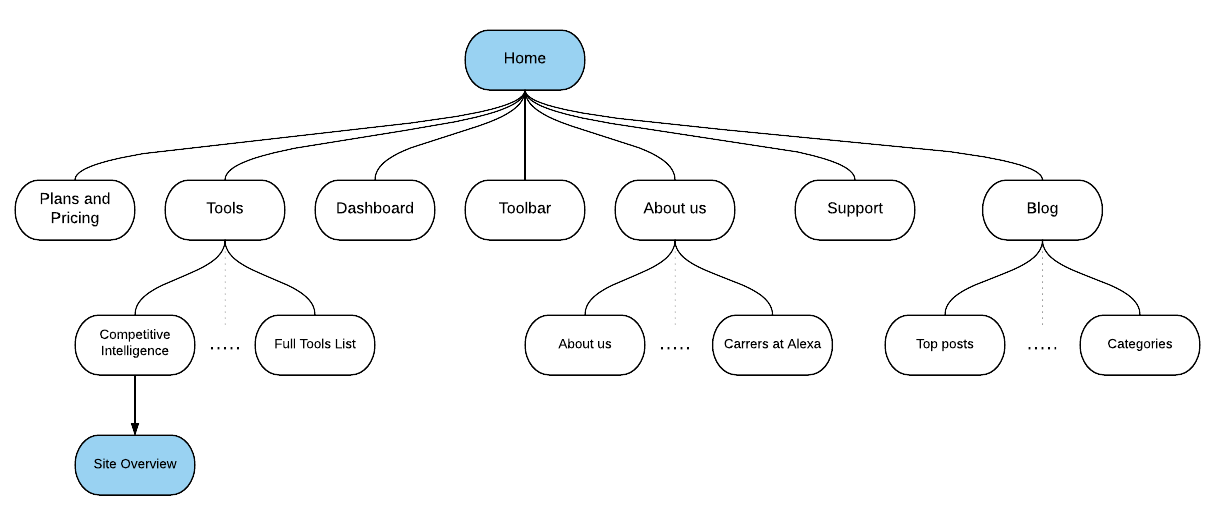
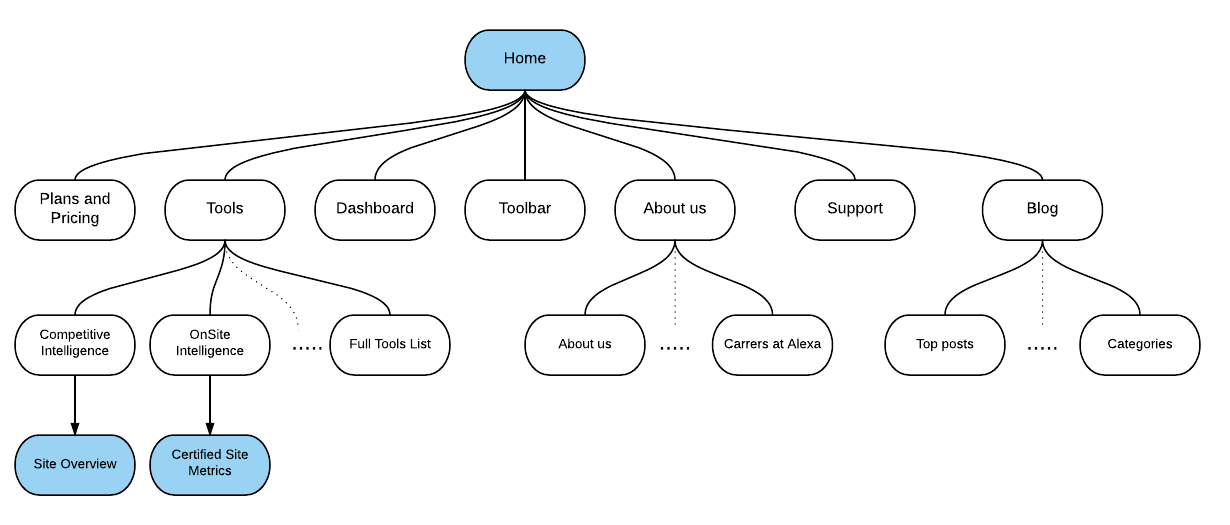
FIX: piccole modifiche e riorganizzata struttura

diff --git a/analisi/sezioni/sub/sezioni.tex b/analisi/sezioni/sub/sezioni.tex
@@ -4,7 +4,7 @@ le informazioni sono distribuite sono visualizzabili nel diagramma seguente:
     \begin{figure}[ht]
     \centering
     \includegraphics[scale=0.65,keepaspectratio]{{analisi/img/alexa_tree}.png}
-    \caption{Struttura ad albero di alexa.com}
+    \caption{Struttura ad albero di alexa.com\protect\footnotemark}
     \end{figure}
     \FloatBarrier
 Dal menù di navigazione il sito sembra avere un solo livello di profondità ma, analizzando attentamente ogni sezione, si nota come alcune di esse (i.e. About us) presentino una colonna a sinistra con delle voci indicanti altre sezioni. In
@@ -34,3 +34,4 @@ Screenshot disponibile al path : \textit{figure/2/sez2.png} \\
 In conclusione la struttura non risulta molto chiara, anche se suddisiva in sezioni
 pertinenti non aiuta l'utente ad orientarsi agevolmente all'interno del sito. \\
 Risultato : \textbf{5}
+\footnotetext{evidenziate le sezioni analizzate in questo documento}

diff --git a/analisi/sezioni/sub/sub1/popup.tex b/analisi/sezioni/sub/sub1/popup.tex
@@ -1,6 +1,9 @@
 \subsubsection{Utilizzo di pop-up}
-Non sono presenti pop-up in nessuna sezione del sito. Non vengono quindi aggiunti
-impedimenti alla navigazione ma sarebbe possibile inserire le funzionalità di
-sign-in e sign-up all'interno di un pop-up per non richiedere il caricamento
+Si può dire che non vengono aggiunti
+impedimenti alla navigazione in quanto gli 
+unici pop-up presenti nel sito sono quelli relativi alle sezioni 
+correlate ai pulsanti \quotes{Take a tour}, come descritto in
+\ref{metrics}. Tuttavia sarebbe possibile inserire le funzionalità di
+sign-in e sign-up all'interno di un pop-up senza richiedere il caricamento
 di una ulteriore pagina web che fa sprecare tempo all'utente. \\
 Risultato : \textbf{9}

diff --git a/analisi/sezioni/sub/sub1/navigazione.tex b/analisi/sezioni/sub/sub1/navigazione.tex
@@ -1,7 +1,8 @@
 \subsubsection{Navigazione}
 Lo spostamento interno al sito avviene attraverso un menù di navigazione posto
 orizzontalmente nel top della pagina. Fortunatamente non è presente alcuna
-splash page e la navigazione può iniziare senza ulteriori impedimenti. 
+splash page e la navigazione può iniziare senza ulteriori impedimenti 
+una volta che l'utente approda nel sito. 
 La navigazione tra le sezioni principali
 risulta abbastanza agevole in quanto le aree cliccabili sono abbastanza grandi
 ma non vengono evidenziate molto efficacemente (aumenta di poco l'opacità),

diff --git a/analisi/sezioni/interne.tex b/analisi/sezioni/interne.tex
@@ -1,3 +1,4 @@
-\section{Pagine interne - caso d'uso}
+\section{Pagine interne}
+  \input{analisi/sezioni/sub/useCase.tex}
   \input{analisi/sezioni/sub/ricerca.tex}
   \input{analisi/sezioni/sub/contenuto.tex}
